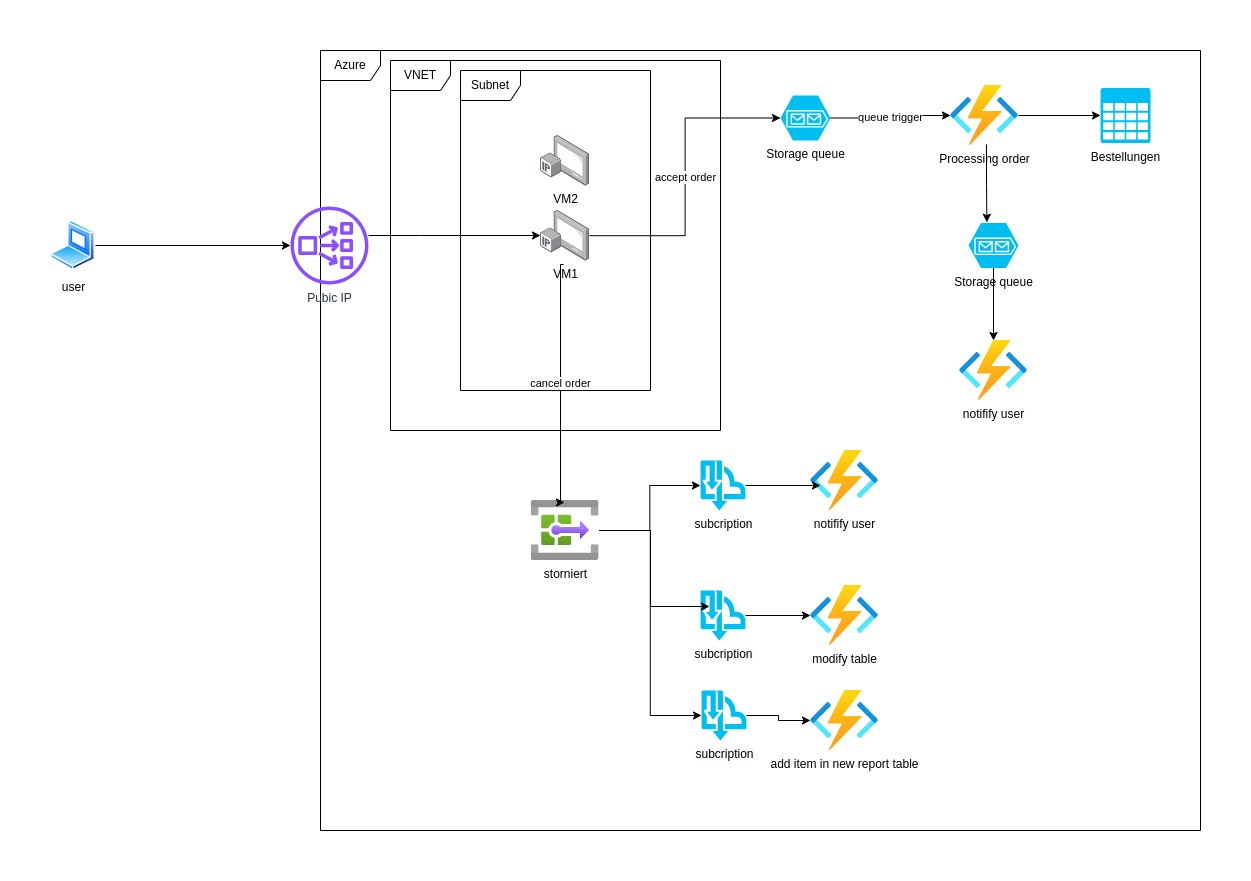
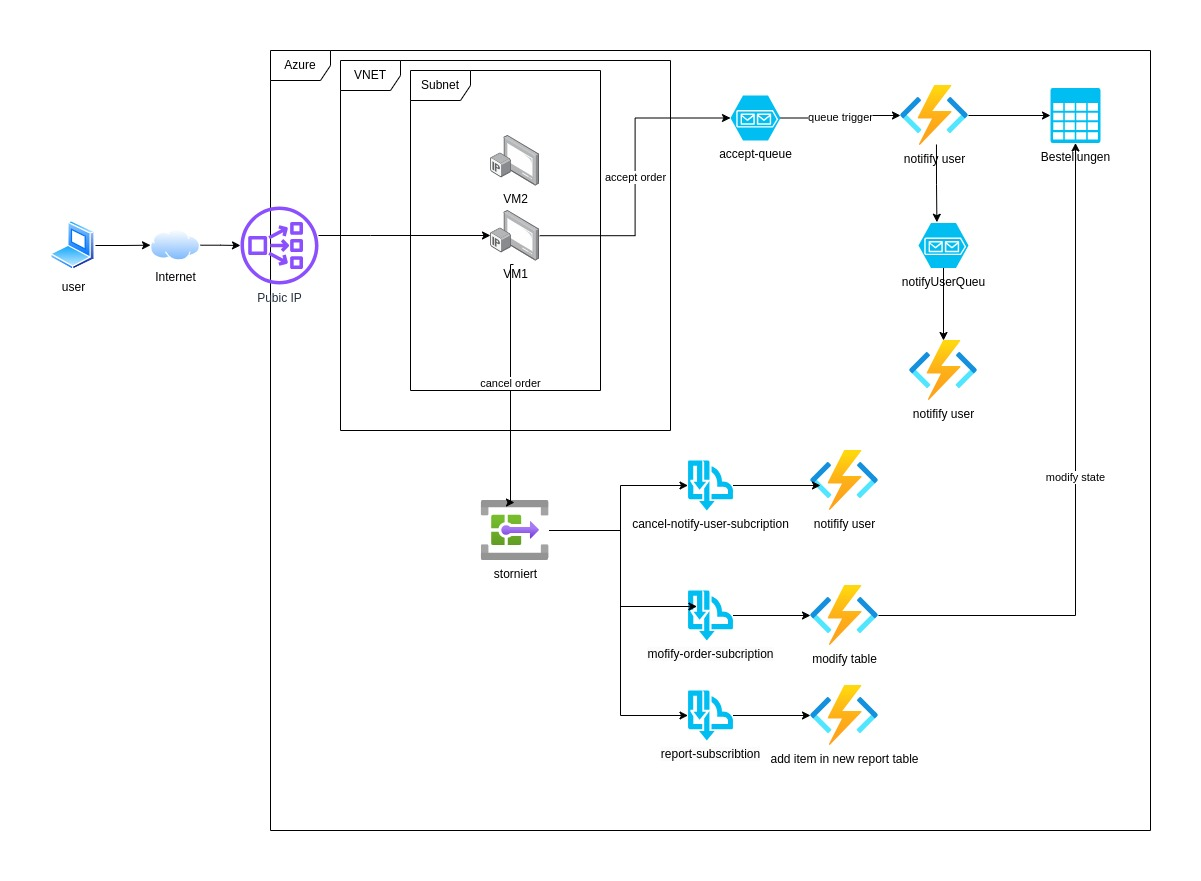
revise target picture

diff --git a/Aufgabe.md b/Aufgabe.md
@@ -41,18 +41,16 @@ Erstellen Sie ein virtuelles Netzwerk (VNet) in Azure, das einen LoadBalancer un
 
 4.  **Azure Storage Account Table:**
 
-    - Erstellen Sie einen Azure Storage Account und innerhalb dessen eine Table, um die Bestelldaten zu speichern.
+    - Erstellen Sie einen Azure Storage Account und innerhalb dessen eine Table, um die Bestelldaten zu speichern. see https://learn.microsoft.com/de-de/azure/cosmos-db/table/how-to-use-java#add-an-entity-to-a-table
 
-           https://learn.microsoft.com/de-de/azure/cosmos-db/table/how-to-use-java#add-an-entity-to-a-table
-
-           ```json
-           {
-            "name": string,
-            "email": string
-            "state": accepted, in_processing, in_delivery, canceled,
-            "orderNo": string
-           }
-           ```
+    ```json
+    {
+      "name": string,
+      "email": string
+      "state": accepted, in_processing, in_delivery, canceled,
+      "orderNo": string
+    }
+    ```
 
 > **📝** Um JSON in die storage queue gerschrieben werden kann, sollte der JSON String Base64 encodiert sein. `String encodedString = Base64.getEncoder().encodeToString(json.getBytes());`
 
@@ -62,13 +60,13 @@ Erstellen Sie ein virtuelles Netzwerk (VNet) in Azure, das einen LoadBalancer un
 
 6.  **Azure Service Bus und Topics für stornierte Bestellungen:**
 
+    https://github.com/Azure/azure-sdk-for-java/blob/main/sdk/servicebus/azure-messaging-servicebus/README.md
+
     - Erstellen Sie ein Topic im Azure Service Bus, in das eine Nachricht geschrieben wird, wenn eine Bestellung über die Spring-Anwendung storniert wird. (Tipp nutzen sie dafür die Filter Funktion)
     - Richten Sie drei Subscribers für das Topic ein:
       1. Ein Subscriber sendet eine Bestätigungsemail an den Benutzer.
       2. Ein Subscriber ändert den Zustand der Bestellung in der Azure Storage Account Table.
       3. Ein Subscriber schreibt den Zeitpunkt und Grund der Stornierung in eine separate Tabelle für spätere Auswertungen.
-
-    https://github.com/Azure/azure-sdk-for-java/blob/main/sdk/servicebus/azure-messaging-servicebus/README.md
 
 ## Hinweise
 
